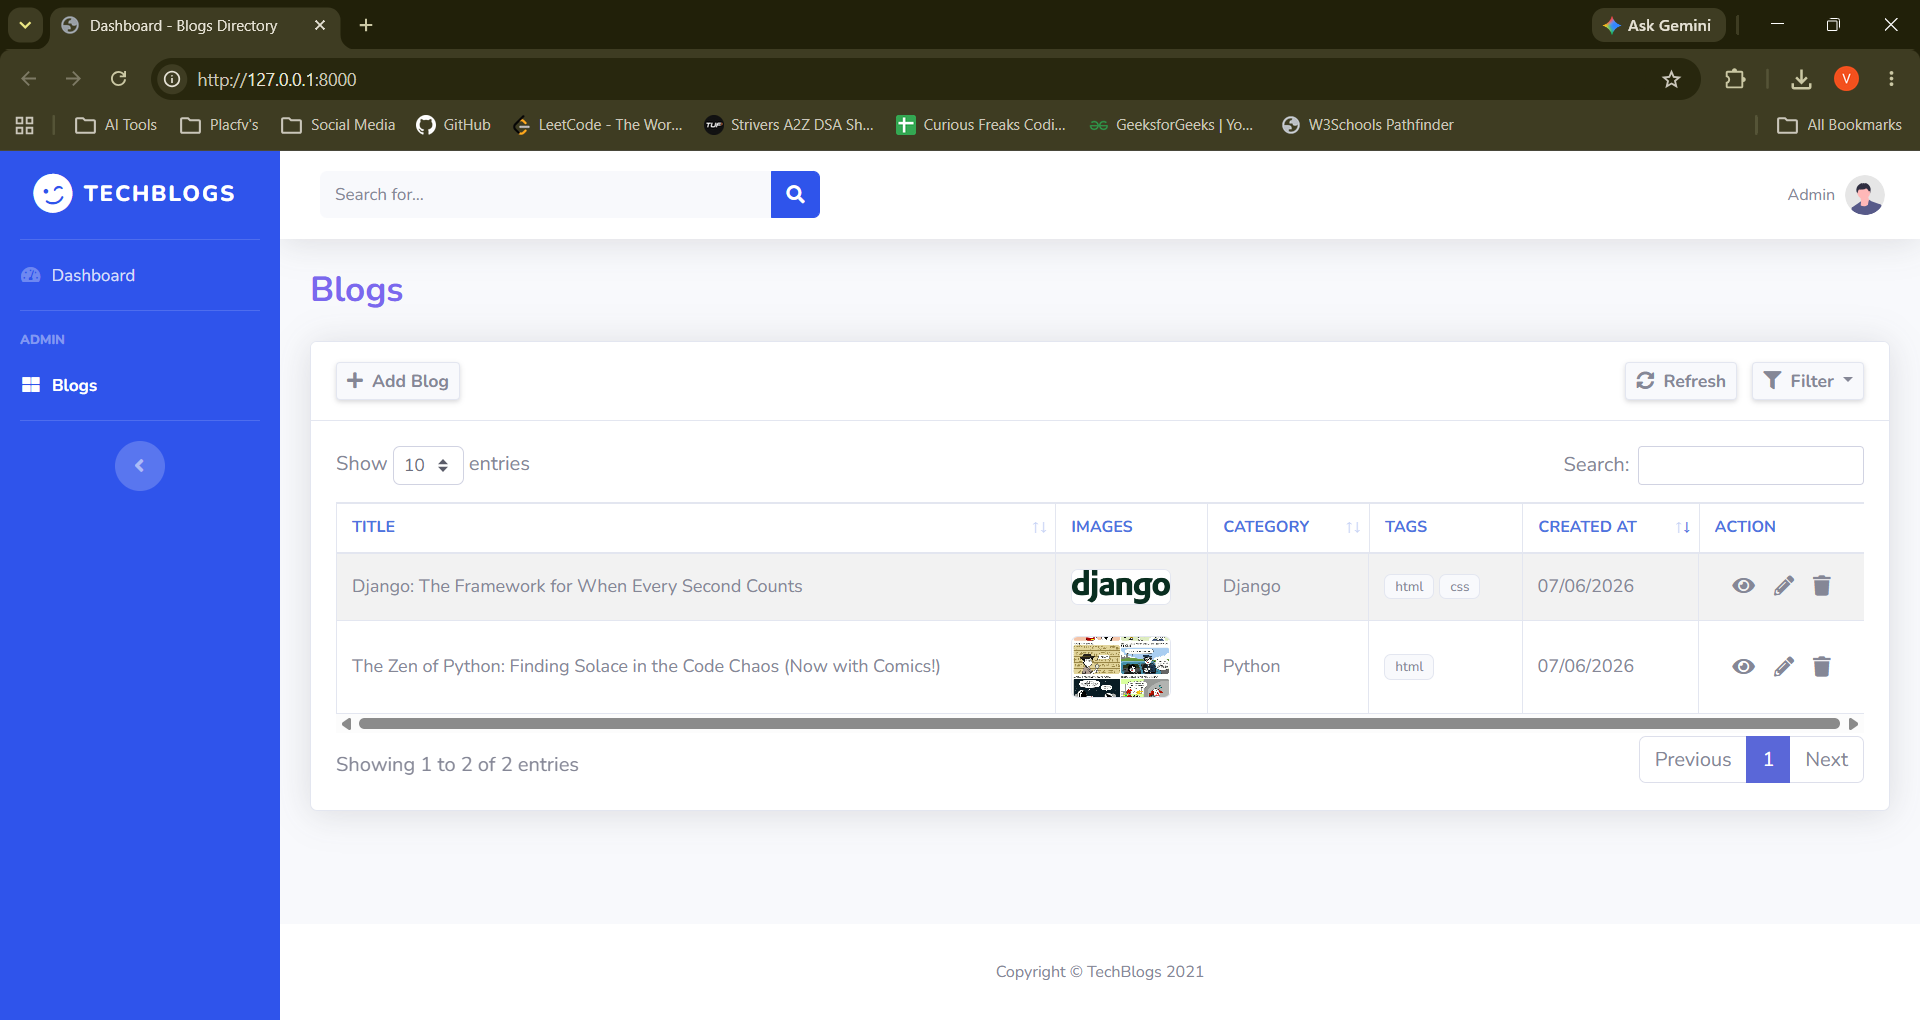
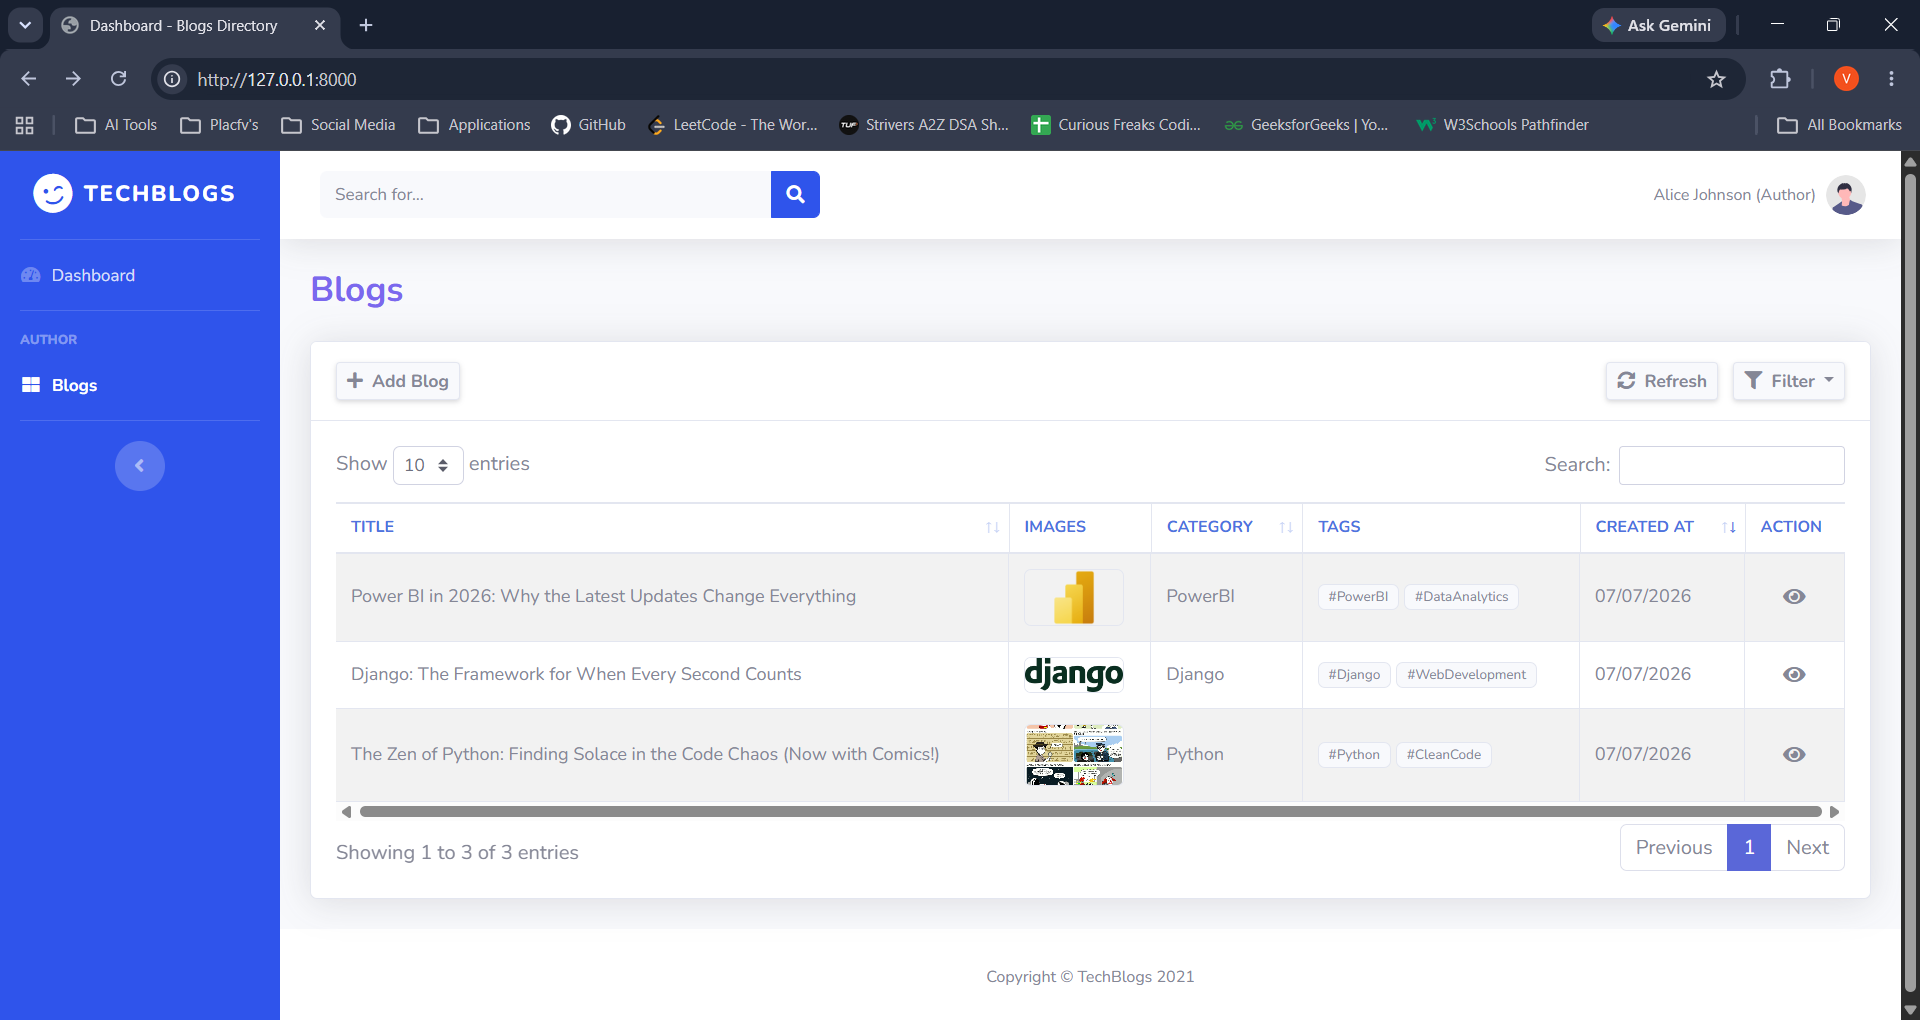
Update README.md and screenshots

diff --git a/README.md b/README.md
@@ -2,37 +2,63 @@
 
 TechBlogs is a premium, fully-featured, AJAX-driven blog management application integrated with the **SB Admin 2** theme framework. It supports server-side pagination, database queries, and rich text editing components.
 
+---
+
 ## 🚀 Key Features
 
-- **AJAX CRUD Operations**: Asynchronous Creation, Updating, Deleting, and Reading without full page reloads.
-- **Server-Side DataTables**: Integrated with `django-ajax-datatable` for rendering, sorting, pagination, and data retrieval.
-- **Multi-Selection Filters**: Toggable category dropdown matching multiple filters dynamically (e.g. *Python*, *Django*, *Scrapy*), showing selection counters.
-- **Global Search**: Submitting the topbar search input filters records instantly on the dashboard or redirects and pre-filters from secondary pages.
-- **Rich Text Editor**: Integrated with **Summernote Lite** for rich document descriptions.
-- **Select2 Tagging**: Dynamic tag creation chip input fields.
-- **Responsive Layout**: Fluid design layout compatible with mobile and desktop browsers.
-- **SweetAlert2 Alerts**: Modern confirmation overlays for deleting entries and successful saves.
+### 1. Core Functionality
+*   **AJAX CRUD Operations**: Asynchronous Creation, Updating, Deleting, and Reading without full page reloads.
+*   **Server-Side DataTables**: Integrated with `django-ajax-datatable` for rendering, sorting, pagination, and data retrieval.
+*   **Multi-Selection Filters**: Toggable category dropdown matching multiple filters dynamically (e.g. *Python*, *Django*, *Scrapy*), showing selection counters.
+*   **Global Search**: Submitting the topbar search input filters records instantly on the dashboard or redirects and pre-filters from secondary pages.
+*   **Rich Text Editor**: Integrated with **Summernote Lite** for rich document descriptions.
+*   **Select2 Tagging**: Dynamic tag creation chip input fields.
+*   **Responsive Layout**: Fluid design layout compatible with mobile and desktop browsers.
+*   **SweetAlert2 Alerts**: Modern confirmation overlays for deleting entries and successful saves.
+
+### 2. Authentication & Session Management
+*   **Case-Insensitive Email Login**: Swapped standard Django username logins with a case-insensitive email-based authentication backend (`EmailBackend`).
+*   **User Registration**: Custom signup flow capturing Full Name, Email, Password, and User Group selection.
+*   **Registration Validation**: Strict client/server validation enforcing unique email checks, matching passwords, and password complexity (8+ characters, at least 1 letter, and 1 digit).
+*   **CSRF-Safe Logouts**: Handled via JavaScript POST requests instead of GET requests, complying with Django 5.x session security standards.
+*   **Dynamic Navbar Toggles**: Adapts layout greetings to show the logged-in user's full name and group name (e.g., `Admin`, `Author`, `Editor`, `Publisher`), or displays guest links if anonymous.
+
+### 3. Role-Based Access Control (RBAC)
+*   **Automated Permissions Provisioning**: Integrates a `post_migrate` signal listener (`create_groups_and_permissions`) to automatically generate user groups and assign precise Blog CRUD rights on migration.
+*   **Permissions Matrix**:
+    *   **Author**: `view_blog`, `add_blog` (Cannot Edit/Delete)
+    *   **Editor**: `view_blog`, `add_blog`, `change_blog` (Cannot Delete)
+    *   **Publisher**: `view_blog`, `add_blog`, `change_blog`, `delete_blog` (Full Rights)
+*   **Ajax-Aware Guard Mixins**: Custom `AjaxLoginRequiredMixin` and `AjaxPermissionRequiredMixin` intercept unauthenticated and unauthorized requests, returning custom `401` or `403` status JSON payloads for AJAX calls, or redirecting page loads.
+*   **Dynamic Actions Rendering**: Datatable edit/delete buttons are generated server-side in `customize_row()` by querying individual permissions of the active session.
 
 ---
 
 ## 📸 Screenshots
 
-### 1. Blogs Dashboard List
+### 1. User Signup Page
+![User Signup](screenshots/signup.png)
+
+### 2. User Login Page
+![User Login](screenshots/login.png)
+
+### 3. Blogs Dashboard List
 ![Blogs Dashboard](screenshots/dashboard.png)
 
-### 2. Create Blog Page
-![Create Blog](screenshots/create_blog.png)
+### 4. Create Blog Page
+![Create Blog 01](screenshots/create_blog1.png)
+![Create Blog 02](screenshots/create_blog2.png)
 
-### 3. Edit Blog Modal
+### 5. Edit Blog Modal
 ![Edit Blog Modal](screenshots/edit_modal.png)
 
-### 4. Blog Details View
+### 6. Blog Details View
 ![Blog Details View](screenshots/detail_view.png)
 
-### 5. Success Alerts
+### 7. Success Alerts
 ![Success Notification](screenshots/success_alert.png)
 
-### 6. Delete Alerts
+### 8. Delete Alerts
 ![Delete Notification](screenshots/delete_alert.png)
 
 ---
@@ -64,13 +90,19 @@ pip install django django-ajax-datatable pillow
 ```
 
 ### 4. Apply Database Migrations
-Generate and apply migrations to build the SQLite database schema:
+Generate and apply migrations to build the SQLite database schema and trigger group provisioning signals:
 ```bash
 python manage.py makemigrations
 python manage.py migrate
 ```
 
-### 5. Run Development Server
+### 5. Create a Superuser
+Create an administrative account to access the backend admin panel:
+```bash
+python manage.py createsuperuser
+```
+
+### 6. Run Development Server
 Start the local server:
 ```bash
 python manage.py runserver
@@ -79,17 +111,29 @@ Visit `http://127.0.0.1:8000/` in your browser.
 
 ---
 
+## 🧪 Running Unit Tests
+
+To run the automated authentication and permission matrix test suite:
+```bash
+python manage.py test blog
+```
+
+---
+
 ## 🗄️ Database Architecture
 
 The `Blog` model consists of the following attributes:
-* `title`: CharField (Blog Title)
-* `content`: TextField (Rich text body description)
-* `image`: ImageField (Cover photo, optional)
-* `category`: CharField (Choices: Python, Django, PowerBI, Scrapy)
-* `tags`: CharField (Comma-separated string tags list)
-* `publish`: BooleanField (Publish status toggle)
-* `created_at`: DateTimeField (Auto-generated timestamp)
-* `updated_at`: DateTimeField (Auto-updated timestamp)
+*   `title`: CharField (Blog Title)
+*   `content`: TextField (Rich text body description)
+*   `image`: ImageField (Cover photo, optional)
+*   `category`: CharField (Choices: Python, Django, PowerBI, Scrapy)
+*   `tags`: CharField (Comma-separated string tags list)
+*   `publish`: BooleanField (Publish status toggle)
+*   `author`: ForeignKey (User in `Author` group, optional, `SET_NULL` on delete)
+*   `editor`: ForeignKey (User in `Editor` group, optional, `SET_NULL` on delete)
+*   `publisher`: ForeignKey (User in `Publisher` group, optional, `SET_NULL` on delete)
+*   `created_at`: DateTimeField (Auto-generated timestamp)
+*   `updated_at`: DateTimeField (Auto-updated timestamp)
 
 ---
 
@@ -99,19 +143,21 @@ The application registers the following app-namespaced routes:
 
 | URL Pattern | View Name | Description | HTTP Method | Request Type |
 | :--- | :--- | :--- | :--- | :--- |
+| `/login/` | `login` | Renders login page and authenticates sessions | `GET`/`POST` | Form |
+| `/logout/` | `logout` | Clears sessions (requires CSRF token) | `POST` | Form |
+| `/signup/` | `signup` | Renders user registration form | `GET`/`POST` | Form |
 | `/` | `list` | Renders dashboard wrapper and master template | `GET` | Standard |
 | `/blogs/datatable/` | `datatable` | Server-side data source for ajax-datatables | `POST` | AJAX (JSON) |
 | `/blogs/create/` | `create` | Renders full-page form (GET) / processes creation (POST) | `GET`/`POST` | Form Redirect |
-| `/blogs/<int:pk>/edit/` | `edit` | Fetches details (GET) / saves changes (POST) | `GET`/`POST` | AJAX (JSON) |
+| `/blogs/<int:pk>/edit/` | `edit` | Fetches details (GET) / saves changes (PUT) | `GET`/`PUT` | AJAX (JSON) |
 | `/blogs/<int:pk>/` | `detail` | Renders single blog post detail view | `GET` | Standard |
-| `/blogs/<int:pk>/delete/` | `delete` | Handles deletion and media file cleanup on disk | `POST` | AJAX (JSON) |
+| `/blogs/<int:pk>/delete/` | `delete` | Handles deletion and media file cleanup on disk | `DELETE` | AJAX (JSON) |
 
 ---
 
 ## 📝 License & Credits
 
-* Table structures powered by [django-ajax-datatable](https://github.com/c-solidum/django-ajax-datatable).
-* Text formatting editor powered by [Summernote Lite](https://summernote.org/).
-* Multi-select elements styled via [Select2](https://select2.org/).
-* Dashboard layout based on the open-source [SB Admin 2 Template](https://startbootstrap.com/theme/sb-admin-2).
-```
+*   Table structures powered by [django-ajax-datatable](https://github.com/c-solidum/django-ajax-datatable).
+*   Text formatting editor powered by [Summernote Lite](https://summernote.org/).
+*   Multi-select elements styled via [Select2](https://select2.org/).
+*   Dashboard layout based on the open-source [SB Admin 2 Template](https://startbootstrap.com/theme/sb-admin-2).